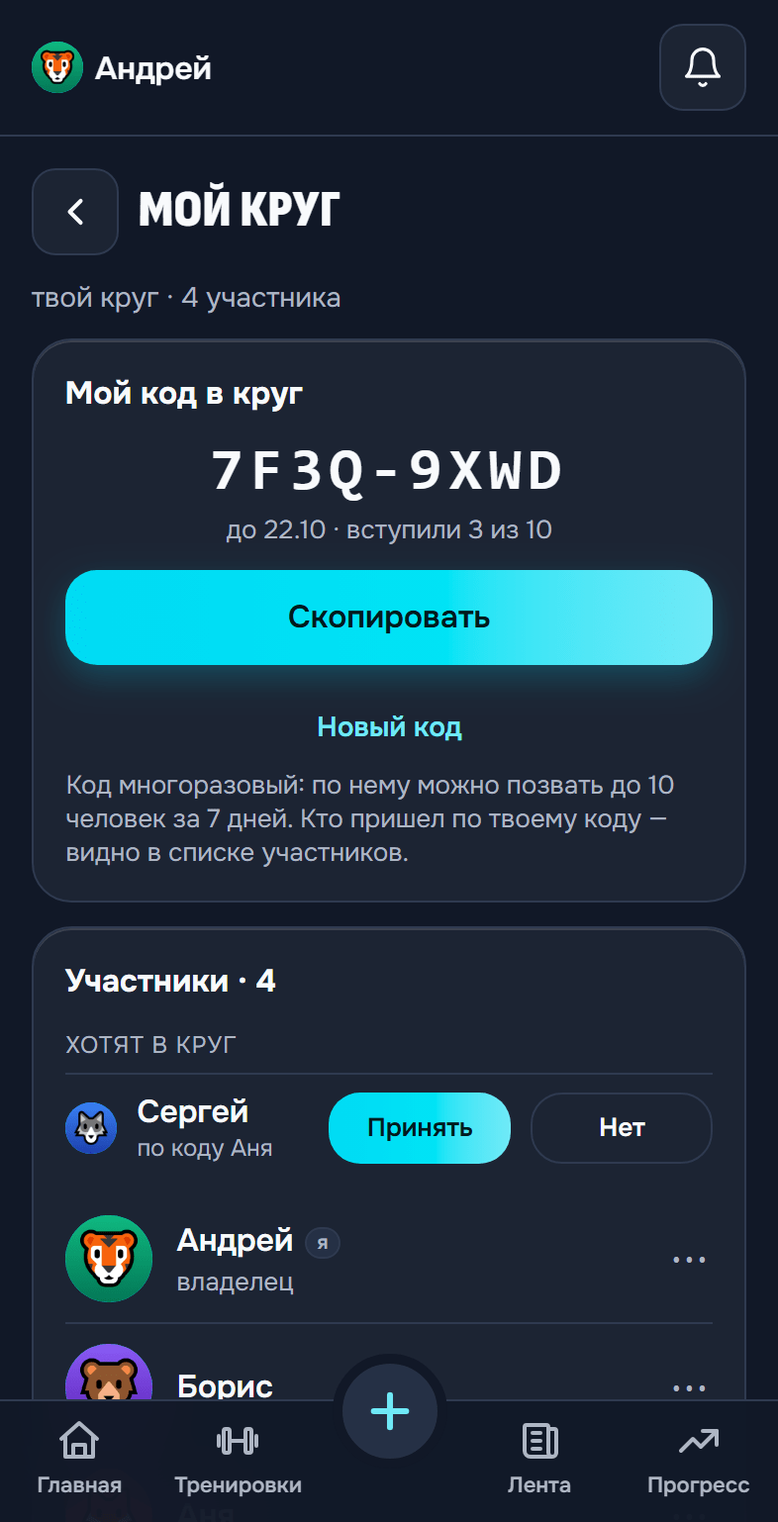
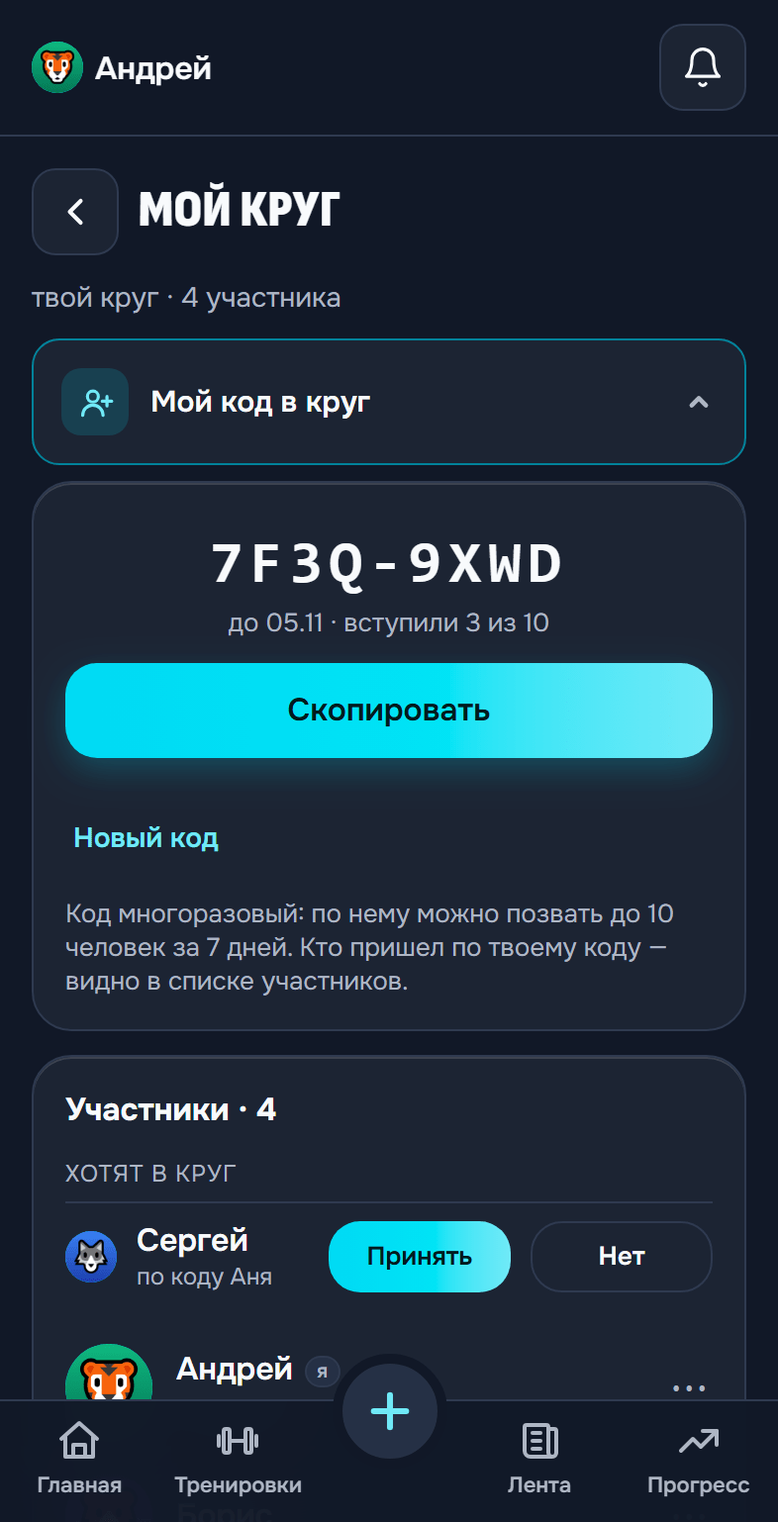
feat(circle): код и настройки круга в аккордеонах, обновление круга и профиля свайпом

diff --git a/landing/quick-start/index.html b/landing/quick-start/index.html
@@ -195,7 +195,7 @@
           <p>Обновить Ленту — потяни ее вниз, нажми стрелку вверху или еще раз нажми на вкладку «Лента».</p>
           <p>Новый личный рекорд отмечен кубком прямо в строке упражнения: «Жим лежа 🏆 90 кг».</p>
           <p>Свое фото — Профиль → нажми на аватар и выбери снимок: его можно подвинуть пальцем и приблизить щипком или ползунком, в аватар попадет то, что в круге.</p>
-          <p>Нажми на имя или аватар участника — откроется его профиль. Аватар там можно открыть крупно: нажми на него.</p>
+          <p>Нажми на имя или аватар участника — откроется его профиль; обновить его можно, потянув экран вниз. Аватар там можно открыть крупно: нажми на него.</p>
           <p>Зеленая точка справа внизу аватарки — человек сейчас в приложении. Она видна в Ленте, в профиле участника, в «Друзьях» и в «Моем круге». В профиле под именем написано «в сети» или когда человек заходил: «был 20 мин назад», «была вчера в 21:10». Видят это те же, кто видит твои тренировки. Нужен интернет.</p>
           <h3>Рейтинг</h3>
           <p>Рейтинг находится вверху <strong>Ленты</strong> — строка <strong>«Рейтинг»</strong> раскрывается по нажатию. Если ты участник круга, а дисциплин в нем пока нет, строки не будет: она появится, когда их добавит владелец.</p>
@@ -218,8 +218,8 @@
           <p>«Друзья» меняются только с интернетом. Чтобы обновить список, потяни экран вниз.</p>
           <h3>Мой круг</h3>
           <p><strong>Профиль → «Мой круг».</strong> Круг — это свои люди: все его участники видят тренировки друг друга, ставят реакции и соревнуются в рейтинге круга.</p>
-          <ul><li><strong>Создать свой круг</strong> — придумай название. Свой круг у человека один, а состоять — не больше чем в 5 кругах.</li><li><strong>Позвать друга</strong> — у каждого участника круга свой код (вида <code>7F3Q-9XWD</code>) и ссылка с ним: «Поделиться» или «Скопировать». Код многоразовый: 7 дней или 10 человек, потом — «Новый код». Друг без учетки откроет ссылку и сразу зарегистрируется в круг; с учеткой — откроет ссылку или введет код в <strong>«Вступить по коду»</strong>, затем «Проверить» → «Вступить». Если владелец принимает по заявке, в круг попадешь после его решения.</li><li><strong>Владелец круга</strong> решает, принимать ли по коду сразу или по заявке, видит, кто кого привел, может убрать участника, отозвать чей-то код, передать круг другому участнику или удалить его. Владелец — это не админ приложения: его права только внутри своего круга.</li><li><strong>Рейтинг круга</strong> — в Ленте, переключатель над рейтингом. Дисциплины выбирает владелец в «Мой круг» → «Настройки круга».</li><li>Выйти из чужого круга — «Выйти из круга» внизу экрана. Владелец выйти не может: сначала передай круг или удали его. Удалишь аккаунт — свой круг перейдет к самому раннему участнику.</li></ul>
-          <p>«Мой круг» работает только с интернетом.</p>
+          <ul><li><strong>Создать свой круг</strong> — придумай название. Свой круг у человека один, а состоять — не больше чем в 5 кругах.</li><li><strong>Позвать друга</strong> — блок «Мой код в круг» (если в круге уже есть люди, он свернут): у каждого участника круга свой код (вида <code>7F3Q-9XWD</code>) и ссылка с ним: «Поделиться» или «Скопировать». Код многоразовый: 7 дней или 10 человек, потом — «Новый код». Друг без учетки откроет ссылку и сразу зарегистрируется в круг; с учеткой — откроет ссылку или введет код в <strong>«Вступить по коду»</strong>, затем «Проверить» → «Вступить». Если владелец принимает по заявке, в круг попадешь после его решения.</li><li><strong>Владелец круга</strong> решает, принимать ли по коду сразу или по заявке, видит, кто кого привел, может убрать участника, отозвать чей-то код, передать круг другому участнику или удалить его. Владелец — это не админ приложения: его права только внутри своего круга.</li><li><strong>Рейтинг круга</strong> — в Ленте, переключатель над рейтингом. Дисциплины выбирает владелец в «Мой круг» → «Настройки круга» (блок раскрывается по нажатию).</li><li>Выйти из чужого круга — «Выйти из круга» внизу экрана. Владелец выйти не может: сначала передай круг или удали его. Удалишь аккаунт — свой круг перейдет к самому раннему участнику.</li></ul>
+          <p>«Мой круг» работает только с интернетом. Чтобы обновить экран, потяни его вниз.</p>
           <h2 id="s11">11. Уведомления</h2>
           <p>Колокольчик <strong>🔔</strong> в шапке показывает события, связанные с тренировками:</p>
           <ul><li>твои новые личные рекорды;</li><li>кто-то побил твой рекорд;</li><li>достигнутые цели;</li><li>реакции на твои тренировки;</li><li>комментарии под твоими тренировками, ответы тебе и реакции на твои комментарии;</li><li>новые достижения;</li><li>инсайты с Главной;</li><li>ответы разработчика на твои обращения.</li></ul>

diff --git a/src/screens/CircleScreen.jsx b/src/screens/CircleScreen.jsx
@@ -11,6 +11,8 @@ import JoinByCode from '../components/circle/JoinByCode.jsx'
 import CircleCode from '../components/circle/CircleCode.jsx'
 import CircleMembers from '../components/circle/CircleMembers.jsx'
 import CircleOwnerSettings from '../components/circle/CircleOwnerSettings.jsx'
+import PullIndicator from '../components/ui/PullIndicator.jsx'
+import { usePullToRefresh } from '../hooks/usePullToRefresh.js'
 
 // «Мой круг» (07.10.2026; сервер — supabase/friend-circles.sql). Свой круг (один) и круги,
 // куда вступил по коду (до 5). У каждого участника — личный код: позвать друга без админа.
@@ -36,6 +38,23 @@ export default function CircleScreen({ user, onBack, onOpenMember, joinCode = nu
     }
   }, [api])
   useEffect(() => { load() }, [load, online])
+
+  // Потянуть вниз — обновить, как в Ленте: круги здесь, участников и заявки перечитывает панель (membersTick).
+  const rootRef = useRef(null)
+  const [refreshing, setRefreshing] = useState(false)
+  const [membersTick, setMembersTick] = useState(0)
+  const refresh = useCallback(async () => {
+    if (!navigator.onLine) return
+    setRefreshing(true)
+    try {
+      await load()
+      if (alive.current) setMembersTick((t) => t + 1)
+    } finally {
+      if (alive.current) setRefreshing(false)
+    }
+  }, [load])
+  const ptr = usePullToRefresh(rootRef, refresh, refreshing)
+
   // v8.0.1: пока идет запрос — последний снимок кругов из локальной базы (тот же
   // fc_my_circles, его держит Лента/Рейтинг), чтобы экран не стоял пустым.
   useEffect(() => {
@@ -56,7 +75,8 @@ export default function CircleScreen({ user, onBack, onOpenMember, joinCode = nu
   const ownCircle = (circles ?? []).find((c) => c.is_owner)
 
   return (
-    <div className="screen profile fc-screen">
+    <div className="screen profile fc-screen" ref={rootRef}>
+      <PullIndicator {...ptr} />
       <div className="admin-head">
         <BackButton onClick={onBack} />
         <h2 className="admin-title">Мой круг</h2>
@@ -94,7 +114,7 @@ export default function CircleScreen({ user, onBack, onOpenMember, joinCode = nu
       )}
 
       {current && (
-        <CirclePanel key={current.circle_id} api={api} circle={current} me={user.id}
+        <CirclePanel key={current.circle_id} api={api} circle={current} me={user.id} membersTick={membersTick}
           onOpenMember={onOpenMember} onChanged={changed} onGone={() => { setSelected(null); changed() }} />
       )}
 
@@ -104,7 +124,7 @@ export default function CircleScreen({ user, onBack, onOpenMember, joinCode = nu
   )
 }
 
-function CirclePanel({ api, circle, me, onChanged, onGone, onOpenMember }) {
+function CirclePanel({ api, circle, me, membersTick, onChanged, onGone, onOpenMember }) {
   const [armLeave, setArmLeave] = useState(false)
   const [leaving, setLeaving] = useState(false) // двойной тап не шлет выход дважды (UI-ревью 23.10)
   const [err, setErr] = useState('')
@@ -135,7 +155,7 @@ function CirclePanel({ api, circle, me, onChanged, onGone, onOpenMember }) {
         <span className="muted">{circle.is_owner ? 'твой круг' : `круг ${circle.owner_name}`} · {circle.members} {plural(circle.members)}</span>
       </div>
       <CircleCode api={api} circle={circle} />
-      <CircleMembers onOpenMember={onOpenMember} api={api} circle={circle} me={me} onChanged={onChanged} />
+      <CircleMembers onOpenMember={onOpenMember} api={api} circle={circle} me={me} onChanged={onChanged} tick={membersTick} />
       {circle.is_owner ? (
         <CircleOwnerSettings api={api} circle={circle} onChanged={onChanged} onDeleted={onGone} />
       ) : (

diff --git a/src/screens/CircleScreen.test.jsx b/src/screens/CircleScreen.test.jsx
@@ -54,7 +54,7 @@ describe('CircleScreen', () => {
     expect(await screen.findByText(/свои люди/)).toBeInTheDocument()
     fireEvent.click(screen.getByRole('button', { name: 'Создать свой круг' }))
     fireEvent.change(screen.getByLabelText('Название'), { target: { value: 'Зал' } })
-    api.myCircles.mockResolvedValue([OWN])
+    api.myCircles.mockResolvedValue([{ ...OWN, members: 1 }])
     fireEvent.click(screen.getByRole('button', { name: 'Создать' }))
     await waitFor(() => expect(api.create).toHaveBeenCalledWith('Зал'))
     expect(await screen.findByTestId('fc-code')).toHaveTextContent('7F3Q-9XWD')
@@ -118,5 +118,27 @@ describe('CircleScreen', () => {
     fireEvent.click(await screen.findByRole('button', { name: 'Вступить' }))
     await waitFor(() => expect(onJoinCodeConsumed).toHaveBeenCalled())
     expect(showToast).toHaveBeenCalledWith(expect.objectContaining({ title: 'Ты в круге 🎉' }))
+  })
+})
+
+describe('CircleScreen: потянуть вниз', () => {
+  it('колесико на экране, жест перечитывает круги и участников', async () => {
+    api.myCircles.mockResolvedValue([OWN])
+    const box = document.createElement('div')
+    box.className = 'content'
+    const host = document.createElement('div')
+    box.appendChild(host)
+    document.body.appendChild(box)
+    const { container } = render(<CircleScreen user={ME} onBack={vi.fn()} />, { container: host })
+    await waitFor(() => expect(api.members).toHaveBeenCalled())
+    expect(container.querySelector('.ptr')).not.toBeNull()
+    const circles = api.myCircles.mock.calls.length
+    const members = api.members.mock.calls.length
+    fireEvent.touchStart(box, { touches: [{ clientX: 0, clientY: 0 }] })
+    fireEvent.touchMove(box, { touches: [{ clientX: 0, clientY: 300 }] })
+    fireEvent.touchEnd(box, { changedTouches: [{ clientX: 0, clientY: 300 }] })
+    await waitFor(() => expect(api.members.mock.calls.length).toBeGreaterThan(members))
+    expect(api.myCircles.mock.calls.length).toBeGreaterThan(circles)
+    box.remove()
   })
 })

diff --git a/src/components/circle/CircleOwnerSettings.jsx b/src/components/circle/CircleOwnerSettings.jsx
@@ -1,5 +1,6 @@
 import { useCallback, useEffect, useMemo, useRef, useState } from 'react'
 import MenuRow from '../ui/MenuRow.jsx'
+import { useRevealFocus } from '../../hooks/useRevealFocus.js'
 import { useLiveQuery } from 'dexie-react-hooks'
 import { getExercises } from '../../db/repo.js'
 import { invalidateRatingCache } from '../../db/disciplines.js'
@@ -7,7 +8,19 @@ import { fmtDate } from '../../lib/dates.js'
 
 // Владельцу: название, автоприем, живые коды участников (отозвать), дисциплины рейтинга
 // круга, удалить круг. Права — только внутри своего круга (это не Админка).
-export default function CircleOwnerSettings({ api, circle, onChanged, onDeleted }) {
+// Аккордеон, свернут: нужны редко, а блок длинный.
+export default function CircleOwnerSettings(props) {
+  const [open, setOpen] = useState(false)
+  const revealRef = useRevealFocus(open)
+  return (
+    <div className="fc-fold" ref={revealRef}>
+      <MenuRow kind="expand" icon="sliders" title="Настройки круга" open={open} onClick={() => setOpen((v) => !v)} />
+      {open && <OwnerPanel {...props} />}
+    </div>
+  )
+}
+
+function OwnerPanel({ api, circle, onChanged, onDeleted }) {
   const [name, setName] = useState(circle.name)
   const [err, setErr] = useState('')
   const [busy, setBusy] = useState('')
@@ -40,7 +53,6 @@ export default function CircleOwnerSettings({ api, circle, onChanged, onDeleted 
   const nameDirty = name.trim() !== circle.name
   return (
     <div className="card fc-owner">
-      <h3 className="fc-h">Настройки круга</h3>
       <div className="field">
         <label className="field-lab" htmlFor="fc-name">Название</label>
         <div className="fc-join-row">

diff --git a/src/components/circle/CircleCode.jsx b/src/components/circle/CircleCode.jsx
@@ -1,10 +1,24 @@
 import { useEffect, useRef, useState } from 'react'
 import { codeMeta, fmtCode, joinMessage, joinUrl } from '../../lib/friendCircles.js'
 import { showToast } from '../ui/Toast.jsx'
+import MenuRow from '../ui/MenuRow.jsx'
+import { useRevealFocus } from '../../hooks/useRevealFocus.js'
 
 // Мой личный код в круг: крупно, срок и сколько вступили; «Поделиться», «Скопировать»,
 // «Новый код» (старый сразу перестает работать). Код многоразовый: 7 дней или 10 человек.
+// Аккордеон: пока в круге никого, кроме тебя, позвать друга — главное на экране, код открыт сразу.
 export default function CircleCode({ api, circle }) {
+  const [open, setOpen] = useState(!(circle.members > 1))
+  const revealRef = useRevealFocus(open)
+  return (
+    <div className="fc-fold" ref={revealRef}>
+      <MenuRow kind="expand" icon="invite" title="Мой код в круг" open={open} onClick={() => setOpen((v) => !v)} />
+      {open && <CodePanel api={api} circle={circle} />}
+    </div>
+  )
+}
+
+function CodePanel({ api, circle }) {
   const [code, setCode] = useState(null)
   const [err, setErr] = useState('')
   const [busy, setBusy] = useState(false)
@@ -51,7 +65,6 @@ export default function CircleCode({ api, circle }) {
 
   return (
     <div className="card fc-code-card">
-      <h3 className="fc-h">Мой код в круг</h3>
       {code ? (
         <>
           <p className="fc-code" data-testid="fc-code" role="button" tabIndex={0} aria-label={`Код ${fmtCode(code.code)} — нажми, чтобы скопировать`}

diff --git a/src/components/circle/CircleOwnerSettings.test.jsx b/src/components/circle/CircleOwnerSettings.test.jsx
@@ -32,7 +32,11 @@ beforeEach(() => {
 })
 afterEach(() => vi.clearAllMocks())
 
-const renderIt = (props = {}) => render(<CircleOwnerSettings api={api} circle={CIRCLE} onChanged={vi.fn()} onDeleted={vi.fn()} {...props} />)
+const renderIt = (props = {}) => {
+  const view = render(<CircleOwnerSettings api={api} circle={CIRCLE} onChanged={vi.fn()} onDeleted={vi.fn()} {...props} />)
+  fireEvent.click(screen.getByRole('button', { name: 'Настройки круга' }))
+  return view
+}
 
 describe('CircleOwnerSettings', () => {
   it('переименование: «Сохранить» только при изменении, затем onChanged', async () => {
@@ -101,5 +105,18 @@ describe('CircleOwnerSettings', () => {
     fireEvent.change(screen.getByLabelText('Название'), { target: { value: 'X' } })
     fireEvent.click(screen.getByRole('button', { name: 'Сохранить' }))
     await waitFor(() => expect(screen.getAllByRole('alert').map((a) => a.textContent).join(' ')).toMatch(/от 1 до 40/))
+  })
+})
+
+describe('CircleOwnerSettings: аккордеон', () => {
+  it('свернут, пока не нажали, и повторное нажатие сворачивает', () => {
+    render(<CircleOwnerSettings api={api} circle={CIRCLE} onChanged={vi.fn()} onDeleted={vi.fn()} />)
+    const row = screen.getByRole('button', { name: 'Настройки круга' })
+    expect(row).toHaveAttribute('aria-expanded', 'false')
+    expect(screen.queryByLabelText('Название')).toBeNull()
+    fireEvent.click(row)
+    expect(screen.getByLabelText('Название')).toBeInTheDocument()
+    fireEvent.click(row)
+    expect(screen.queryByLabelText('Название')).toBeNull()
   })
 })

diff --git a/src/screens/MemberScreen.jsx b/src/screens/MemberScreen.jsx
@@ -17,6 +17,8 @@ import SetsCells from '../components/workout/SetsCells.jsx'
 import { plural, pluralize } from '../lib/plural.js'
 import AvatarZoom from '../components/ui/AvatarZoom.jsx'
 import BackButton from '../components/ui/BackButton.jsx'
+import PullIndicator from '../components/ui/PullIndicator.jsx'
+import { usePullToRefresh } from '../hooks/usePullToRefresh.js'
 import CardsSkeleton from '../components/ui/CardsSkeleton.jsx'
 import FeedPrBadge, { prForEntry } from '../components/social/FeedPrBadge.jsx'
 import WorkoutSocial from '../components/social/WorkoutSocial.jsx'
@@ -79,6 +81,9 @@ export default function MemberScreen({ user, memberId, onBack, onOpenMember }) {
     }
   }, [user.id, memberId])
 
+  const rootRef = useRef(null)
+  const ptr = usePullToRefresh(rootRef, refresh, refreshing)
+
   // Реакция на тренировку участника (v6.7.1): очередь + оптимистичная правка,
   // затем отправка и свежий снимок профиля.
   const onReact = useCallback((workoutId, kind, mine) => {
@@ -118,7 +123,8 @@ export default function MemberScreen({ user, memberId, onBack, onOpenMember }) {
   const partial = disp.partial
 
   return (
-    <div className="screen profile member">
+    <div className="screen profile member" ref={rootRef}>
+      <PullIndicator {...ptr} />
       <div className="admin-head">
         <BackButton onClick={onBack} />
         <h2 className="admin-title">Профиль</h2>

diff --git a/src/components/circle/CircleMembers.jsx b/src/components/circle/CircleMembers.jsx
@@ -7,7 +7,7 @@ import MoreMenu from '../ui/MoreMenu.jsx'
 
 // Участники круга: кто кого привел; владельцу — заявки (принять/отклонить), удалить
 // участника, передать круг. Действия с последствиями — в два нажатия.
-export default function CircleMembers({ api, circle, me, onChanged, onOpenMember }) {
+export default function CircleMembers({ api, circle, me, onChanged, onOpenMember, tick = 0 }) {
   // «В сети» (v8.6.0) — точка на аватарке участника.
   const presence = usePresence(me)
   const sexOf = useRosterSex()
@@ -28,7 +28,7 @@ export default function CircleMembers({ api, circle, me, onChanged, onOpenMember
       if (alive.current) setErr(e.message)
     }
   }, [api, circle.circle_id])
-  useEffect(() => { load() }, [load])
+  useEffect(() => { load() }, [load, tick]) // tick — обновление потягиванием на экране круга
 
   async function act(key, fn) {
     setBusy(key); setErr('')

diff --git a/src/components/circle/CircleCode.test.jsx b/src/components/circle/CircleCode.test.jsx
@@ -77,3 +77,18 @@ describe('CircleCode', () => {
     expect(screen.queryByTestId('fc-code')).toBeNull()
   })
 })
+
+describe('CircleCode: аккордеон', () => {
+  it('в круге один — код открыт, есть люди — свернут до нажатия', async () => {
+    const { unmount } = render(<CircleCode api={api} circle={{ ...CIRCLE, members: 1 }} />)
+    expect(screen.getByRole('button', { name: 'Мой код в круг' })).toHaveAttribute('aria-expanded', 'true')
+    expect(await screen.findByTestId('fc-code')).toBeInTheDocument()
+    unmount()
+    render(<CircleCode api={api} circle={{ ...CIRCLE, members: 3 }} />)
+    const row = screen.getByRole('button', { name: 'Мой код в круг' })
+    expect(row).toHaveAttribute('aria-expanded', 'false')
+    expect(screen.queryByTestId('fc-code')).toBeNull()
+    fireEvent.click(row)
+    expect(await screen.findByTestId('fc-code')).toBeInTheDocument()
+  })
+})

diff --git a/src/index.css b/src/index.css
@@ -4361,6 +4361,9 @@ html[data-sheet-open] .content { overflow-y: hidden; }
 .fc-msg { margin: 8px 0 0; font-size: var(--fs-meta); }
 .fc-tabs { margin-bottom: 12px; }
 .fc-title-row { display: flex; flex-direction: column; gap: 2px; margin: 4px 0 12px; }
+.fc-fold { margin-bottom: 12px; }
+.fc-fold > .menu-row { margin-bottom: 0; }
+.fc-fold > .card { margin-top: 8px; margin-bottom: 0; }
 .fc-circle-name { margin: 0; font-family: var(--font-display); font-weight: 900; font-size: 22px; text-transform: uppercase; letter-spacing: .02em; }
 .fc-code {
   margin: 6px 0 4px; text-align: center; color: var(--text);

diff --git a/docs/quick-start.md b/docs/quick-start.md
@@ -238,7 +238,7 @@ PIN проверяет сервер. Без интернета (или если 
 
 Свое фото — Профиль → нажми на аватар и выбери снимок: его можно подвинуть пальцем и приблизить щипком или ползунком, в аватар попадет то, что в круге.
 
-Нажми на имя или аватар участника — откроется его профиль. Аватар там можно открыть крупно: нажми на него.
+Нажми на имя или аватар участника — откроется его профиль; обновить его можно, потянув экран вниз. Аватар там можно открыть крупно: нажми на него.
 
 Зеленая точка справа внизу аватарки — человек сейчас в приложении. Она видна в Ленте, в профиле участника, в «Друзьях» и в «Моем круге». В профиле под именем написано «в сети» или когда человек заходил: «был 20 мин назад», «была вчера в 21:10». Видят это те же, кто видит твои тренировки. Нужен интернет.
 
@@ -290,12 +290,12 @@ PIN проверяет сервер. Без интернета (или если 
 **Профиль → «Мой круг».** Круг — это свои люди: все его участники видят тренировки друг друга, ставят реакции и соревнуются в рейтинге круга.
 
 - **Создать свой круг** — придумай название. Свой круг у человека один, а состоять — не больше чем в 5 кругах.
-- **Позвать друга** — у каждого участника круга свой код (вида `7F3Q-9XWD`) и ссылка с ним: «Поделиться» или «Скопировать». Код многоразовый: 7 дней или 10 человек, потом — «Новый код». Друг без учетки откроет ссылку и сразу зарегистрируется в круг; с учеткой — откроет ссылку или введет код в **«Вступить по коду»**, затем «Проверить» → «Вступить». Если владелец принимает по заявке, в круг попадешь после его решения.
+- **Позвать друга** — блок «Мой код в круг» (если в круге уже есть люди, он свернут): у каждого участника круга свой код (вида `7F3Q-9XWD`) и ссылка с ним: «Поделиться» или «Скопировать». Код многоразовый: 7 дней или 10 человек, потом — «Новый код». Друг без учетки откроет ссылку и сразу зарегистрируется в круг; с учеткой — откроет ссылку или введет код в **«Вступить по коду»**, затем «Проверить» → «Вступить». Если владелец принимает по заявке, в круг попадешь после его решения.
 - **Владелец круга** решает, принимать ли по коду сразу или по заявке, видит, кто кого привел, может убрать участника, отозвать чей-то код, передать круг другому участнику или удалить его. Владелец — это не админ приложения: его права только внутри своего круга.
-- **Рейтинг круга** — в Ленте, переключатель над рейтингом. Дисциплины выбирает владелец в «Мой круг» → «Настройки круга».
+- **Рейтинг круга** — в Ленте, переключатель над рейтингом. Дисциплины выбирает владелец в «Мой круг» → «Настройки круга» (блок раскрывается по нажатию).
 - Выйти из чужого круга — «Выйти из круга» внизу экрана. Владелец выйти не может: сначала передай круг или удали его. Удалишь аккаунт — свой круг перейдет к самому раннему участнику.
 
-«Мой круг» работает только с интернетом.
+«Мой круг» работает только с интернетом. Чтобы обновить экран, потяни его вниз.
 
 ## 11. Уведомления
 
